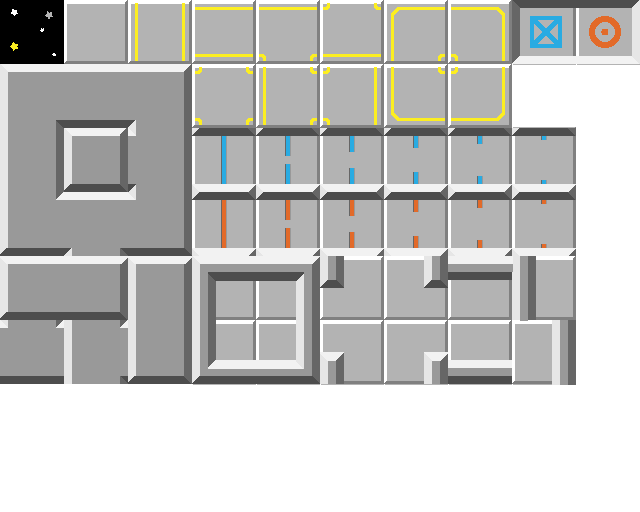
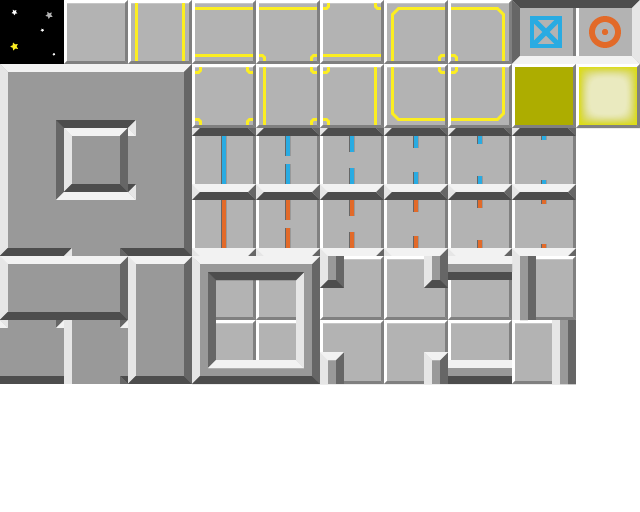
add interactive tiles, Floor_light
add walkOff method for tiles, called when an object leaves the tile

Changed region(s): [[0.7812, 0.125, 1.0, 0.25]]

diff --git a/js/tiles.js b/js/tiles.js
@@ -25,6 +25,10 @@ function createTile(type) {
             tile = new Floor({12:"NS",13:"EW",14:"ESW",15:"NEW",16:"ES",17:"SW",
                               23:"NESW",24:"NES",25:"NSW",26:"NE",27:"NW"}[type]);
                  break;
+        // active floor - with light
+        case 28:
+            tile = new FloorLight();
+            break;
         // plain walls
         case 31: tile = new Wall();
             break;
@@ -114,6 +118,10 @@ class Tile extends createjs.Sprite {
     walkOn(object,xoffset, yoffset) {
         // nothing usually happens here - implement function in subclasses, if necessary
     }
+
+    walkOff(object,xoffset, yoffset) {
+        // called whenever an object leaves this tile
+    }
 }
 
 class Space extends Tile {
@@ -133,6 +141,52 @@ class Floor extends Tile {
         this.walkable = true;
     }
 }
+
+class FloorLight extends Tile {
+    constructor() {
+        super("floor_light_off");
+        this.turnedOn = false;
+
+        // keep track on all the objects on this tile
+        this.objectsOn = [];
+
+        this.walkable = true;
+    }
+
+    turnOn() {
+        this.turnedOn = true;
+        this.gotoAndStop("floor_light_on");
+    }
+
+    turnOff() {
+        this.turnedOn = false;
+        this.gotoAndStop("floor_light_off");
+    }
+
+    // Walk on - something happens!
+    walkOn(object,xoffset, yoffset) {
+        if( xoffset > 4 && xoffset < 60 && yoffset > 4 && yoffset < 60) {
+
+            if( this.objectsOn.indexOf(object) == -1 ) {
+                this.objectsOn.push(object);
+            }
+
+            if(!this.turnedOn) {
+                this.turnOn();
+            }
+        }
+    }
+
+    walkOff(object,xoffset, yoffset) {
+        this.objectsOn.splice(this.objectsOn.indexOf(object),1);
+        // only turn off, if all objects on the tile has gone
+        if( this.turnedOn && this.objectsOn.length == 0) {
+            this.turnOff();
+        }
+    }
+
+}
+
 
 class Wall extends Tile {
     constructor(direction) {

diff --git a/js/game.js b/js/game.js
@@ -380,11 +380,25 @@ function movedTo(object, xpos, ypos) {
     let topTile = Math.floor((ypos-object.h/2)/64);
     let bottomTile = Math.floor((ypos+object.h/2)/64);
 
+    let oldTiles = object.tiles;
+    object.tiles = [];
+
     for( let x=leftTile; x <= rightTile; x++ ) {
         for( let y=topTile; y <= bottomTile; y++ ) {
             let tile = getTileAt(x,y);
             tile.walkOn(object, xpos-tile.x, ypos-tile.y );
+            object.tiles.push(tile);
         }
+    }
+
+    // track changes to tiles
+    if( oldTiles ) {
+        oldTiles.forEach( tile => {
+            // if this tile doesn't exist in the new array, we have left a tile
+            if(object.tiles.indexOf(tile) == -1) {
+                tile.walkOff(object, xpos-tile.x, ypos-tile.y);
+            }
+        })
     }
 }
 
